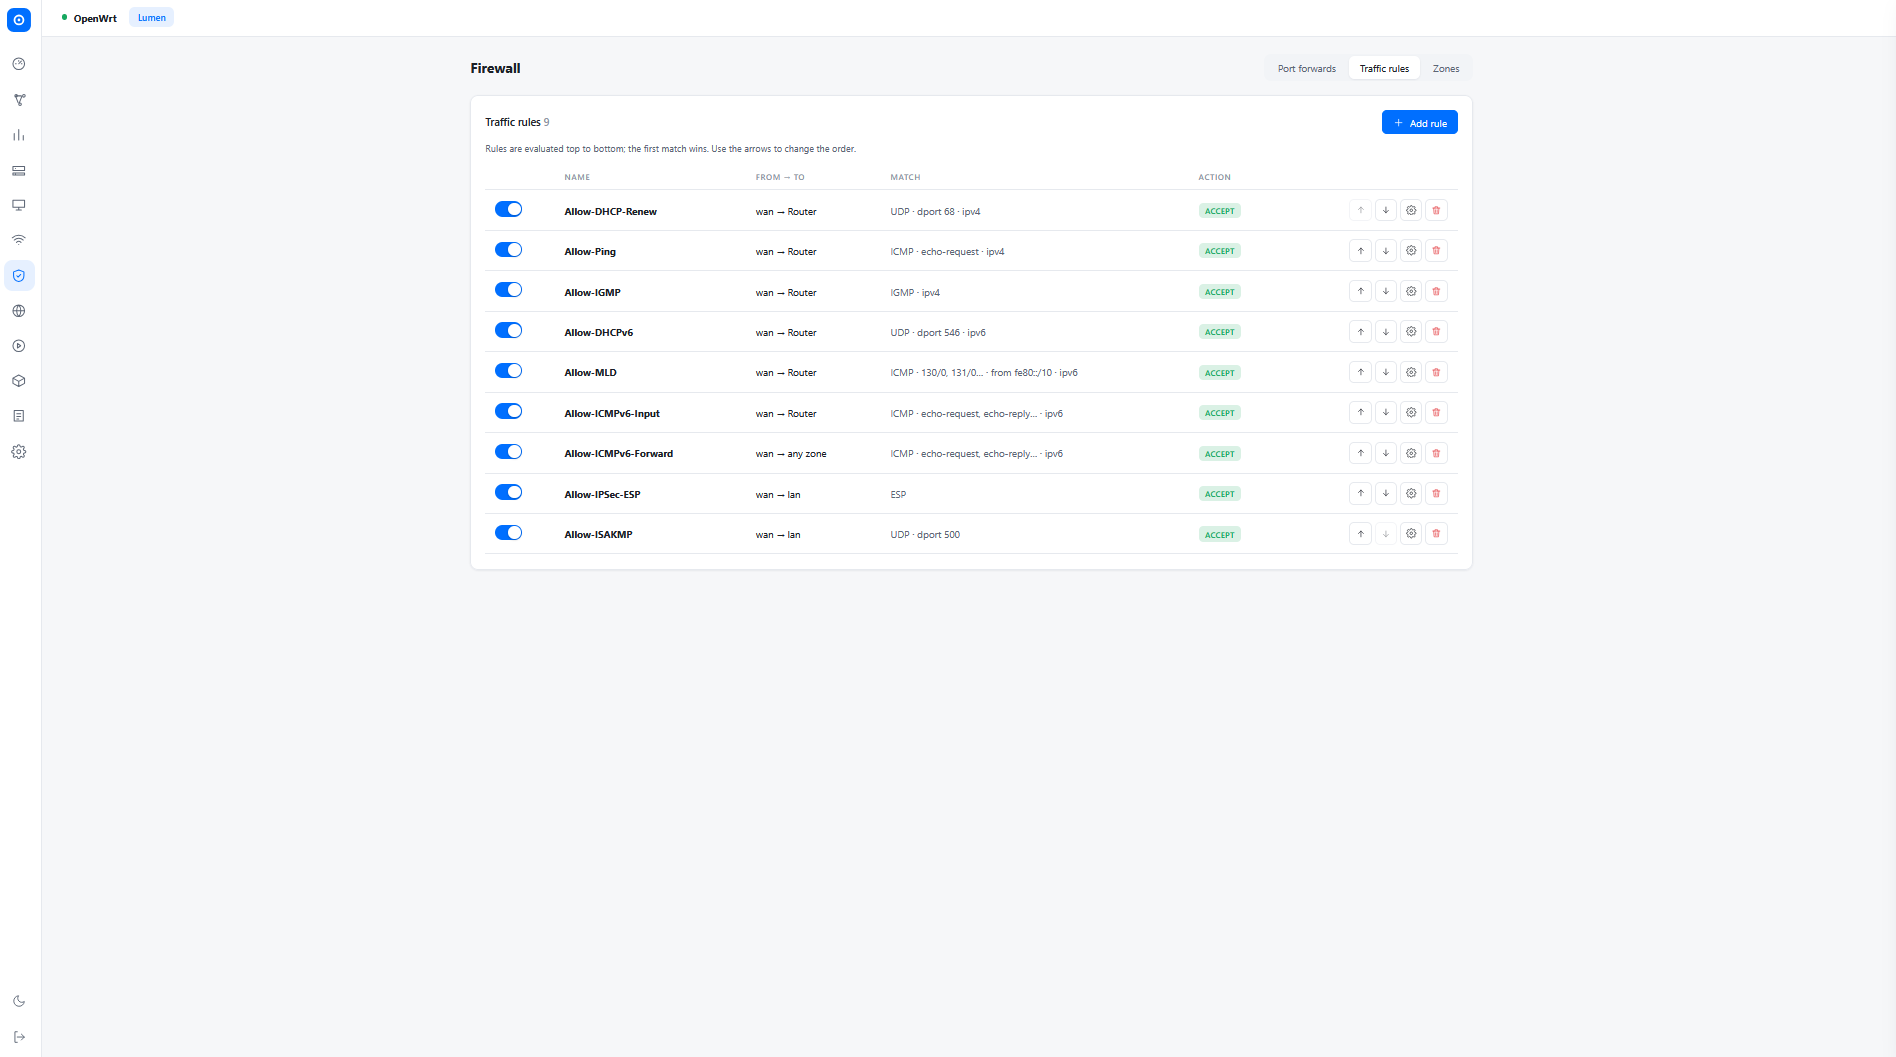
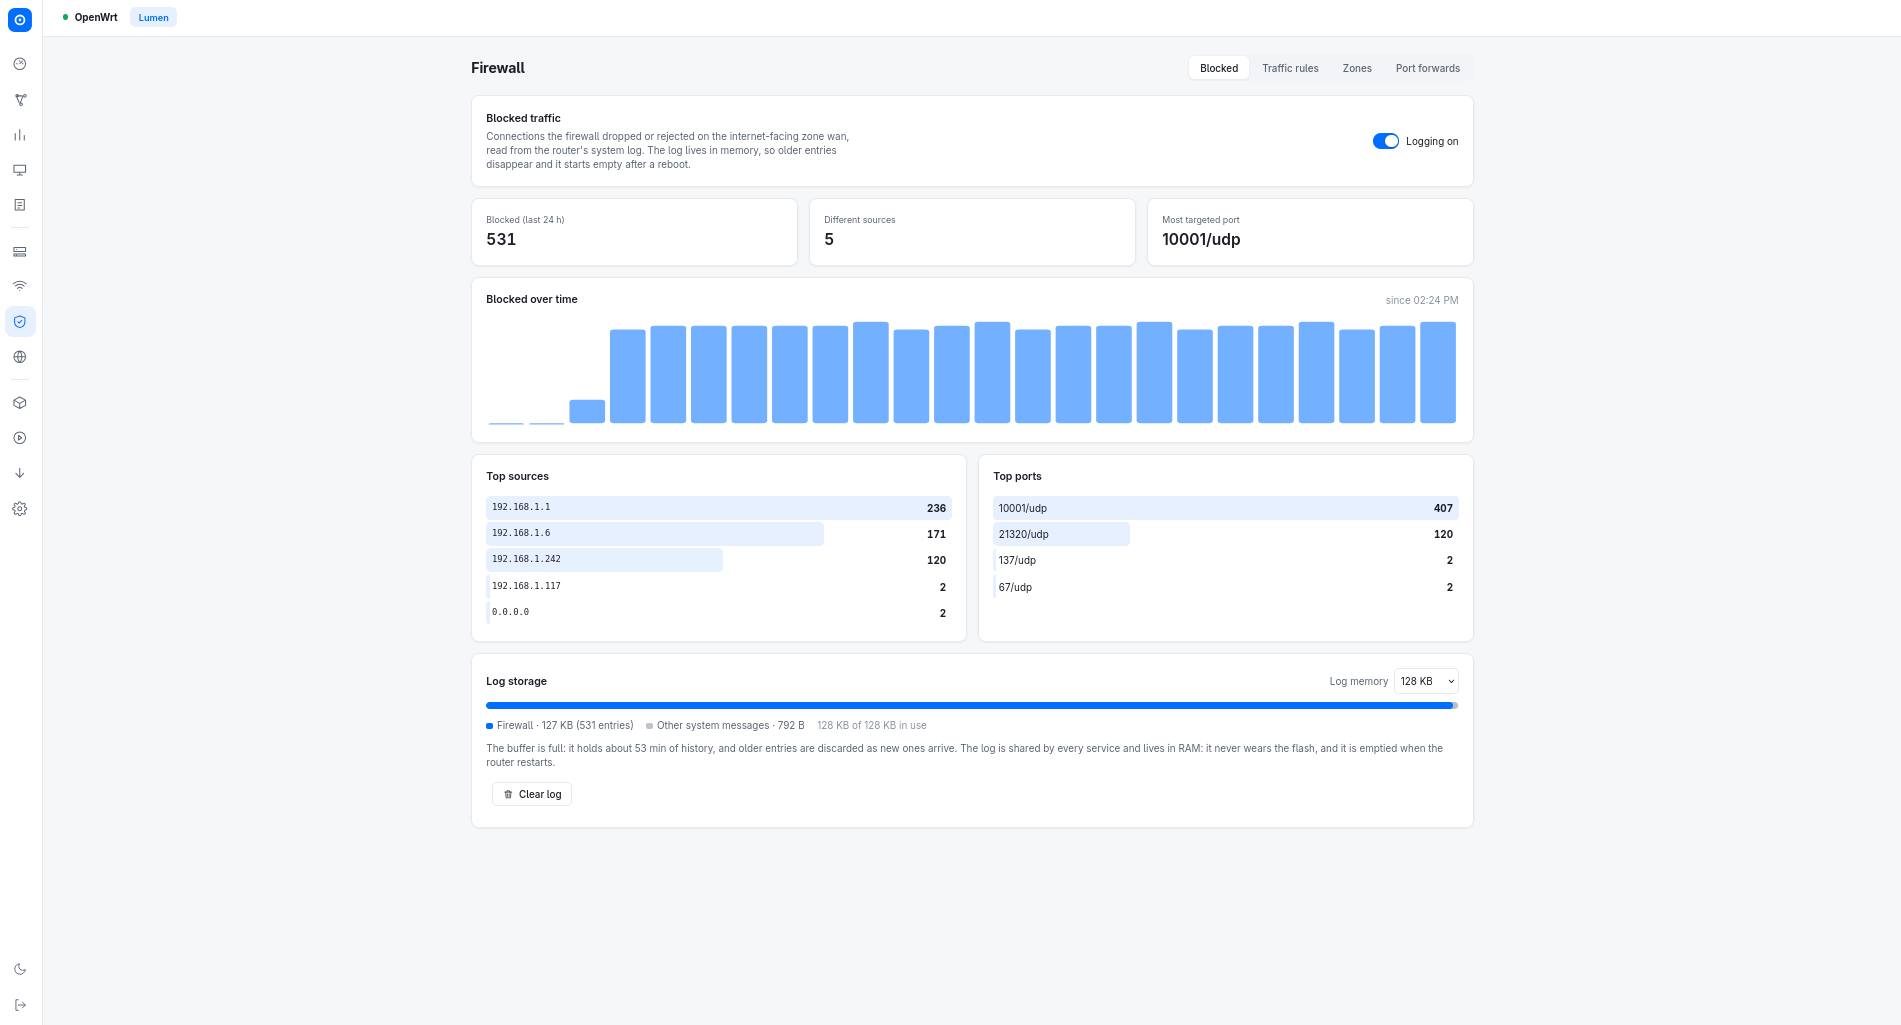
docs: refresh screenshots (Firewall, Updates, Services, Settings) and add Backup
Claude-Session: https://claude.ai/code/session_01DEZbrbQKvCgwpXnyQPLkWG

diff --git a/README.md b/README.md
@@ -128,16 +128,20 @@ in light and dark themes, on desktop and phone.
     <td width="50%"><a href="docs/screenshots/wifi.png"><img alt="Wi-Fi" src="docs/screenshots/wifi.png"></a><br><b>Wi-Fi</b><br><sub>Radios, SSIDs and connected clients.</sub></td>
   </tr>
   <tr>
-    <td width="50%"><a href="docs/screenshots/firewall.png"><img alt="Firewall" src="docs/screenshots/firewall.png"></a><br><b>Firewall</b><br><sub>Reorderable traffic rules, port forwards and zones.</sub></td>
+    <td width="50%"><a href="docs/screenshots/firewall.png"><img alt="Firewall" src="docs/screenshots/firewall.png"></a><br><b>Firewall</b><br><sub>Blocked traffic with logging, reorderable rules, port forwards and zones.</sub></td>
     <td width="50%"><a href="docs/screenshots/dhcp-dns.png"><img alt="DHCP & DNS" src="docs/screenshots/dhcp-dns.png"></a><br><b>DHCP &amp; DNS</b><br><sub>DHCP pools, upstream DNS and static reservations.</sub></td>
   </tr>
   <tr>
-    <td width="50%"><a href="docs/screenshots/services.png"><img alt="Services" src="docs/screenshots/services.png"></a><br><b>Services</b><br><sub>Health of every service at a glance.</sub></td>
+    <td width="50%"><a href="docs/screenshots/services.png"><img alt="Services" src="docs/screenshots/services.png"></a><br><b>Services</b><br><sub>Running and failed state of every startup script, with start at boot.</sub></td>
     <td width="50%"><a href="docs/screenshots/software.png"><img alt="Updates" src="docs/screenshots/software.png"></a><br><b>Updates</b><br><sub>OpenWrt release, packages and Lumen in one place.</sub></td>
   </tr>
   <tr>
     <td width="50%"><a href="docs/screenshots/logs.png"><img alt="Logs" src="docs/screenshots/logs.png"></a><br><b>Logs</b><br><sub>The system log with a live filter.</sub></td>
-    <td width="50%"><a href="docs/screenshots/system.png"><img alt="System" src="docs/screenshots/system.png"></a><br><b>System</b><br><sub>Hardware, temperatures and power.</sub></td>
+    <td width="50%"><a href="docs/screenshots/system.png"><img alt="Settings" src="docs/screenshots/system.png"></a><br><b>Settings</b><br><sub>Identity, time, password, SSH, LEDs and hardware details.</sub></td>
+  </tr>
+  <tr>
+    <td width="50%"><a href="docs/screenshots/backup.png"><img alt="Backup" src="docs/screenshots/backup.png"></a><br><b>Backup</b><br><sub>Download and restore the configuration, or reset to factory defaults.</sub></td>
+    <td width="50%"></td>
   </tr>
 </table>
 
